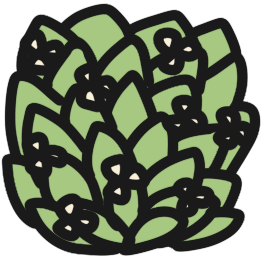
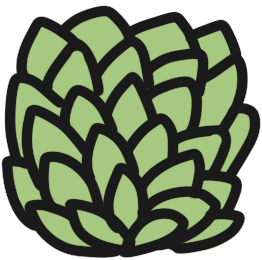
changed to load 8 berry phases in
Berries will have 8 phases and not 7. This extra phase goes right at
the beginning of all the others.

Don't currently have the actual art for the new phase 1 so for now
enjoy my terrible programmer art I made in 5 seconds!

diff --git a/assets/image.go b/assets/image.go
@@ -37,4 +37,5 @@ var (
 	Berries5 *ebiten.Image = LoadPNG(berries5Bytes)
 	Berries6 *ebiten.Image = LoadPNG(berries6Bytes)
 	Berries7 *ebiten.Image = LoadPNG(berries7Bytes)
+	Berries8 *ebiten.Image = LoadPNG(berries8Bytes)
 )

diff --git a/game/berry.go b/game/berry.go
@@ -25,6 +25,8 @@ func (b berryPhase) GetTexture() *ebiten.Image {
 		return assets.Berries6
 	case 7:
 		return assets.Berries7
+	case 8:
+		return assets.Berries8
 	default:
 		panic("not a valid berry phase")
 	}

diff --git a/assets/embed.go b/assets/embed.go
@@ -43,4 +43,6 @@ var (
 	berries6Bytes []byte
 	//go:embed berries/phase7.png
 	berries7Bytes []byte
+	//go:embed berries/phase8.png
+	berries8Bytes []byte
 )
